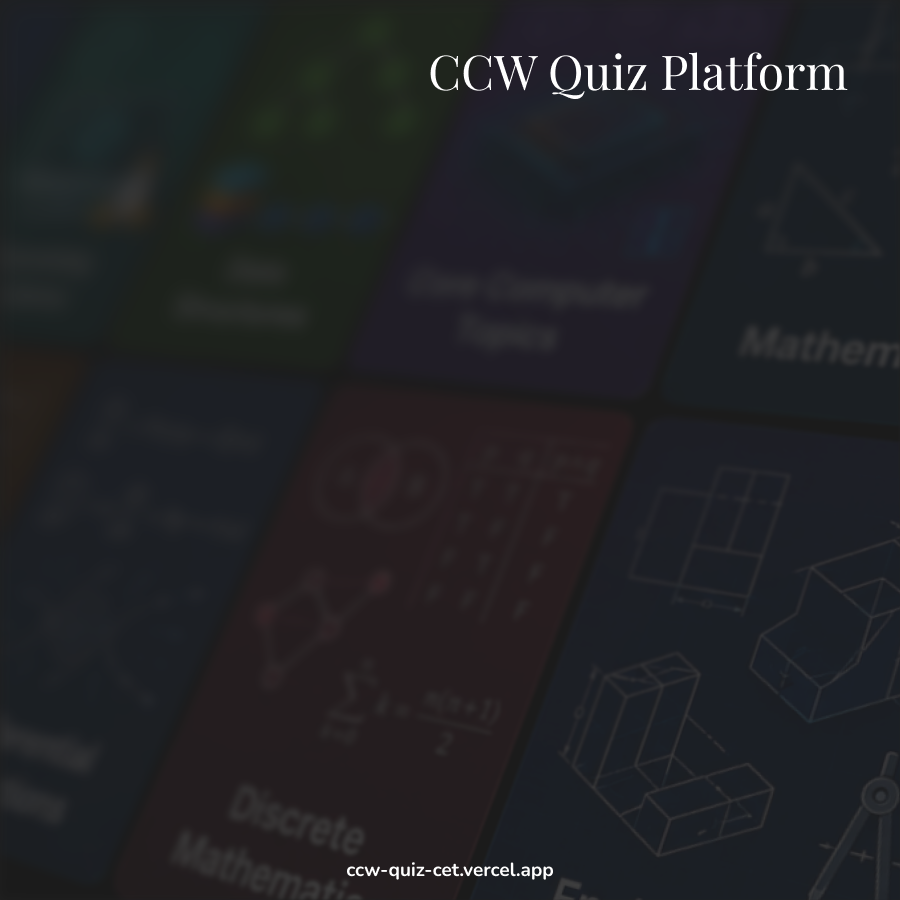
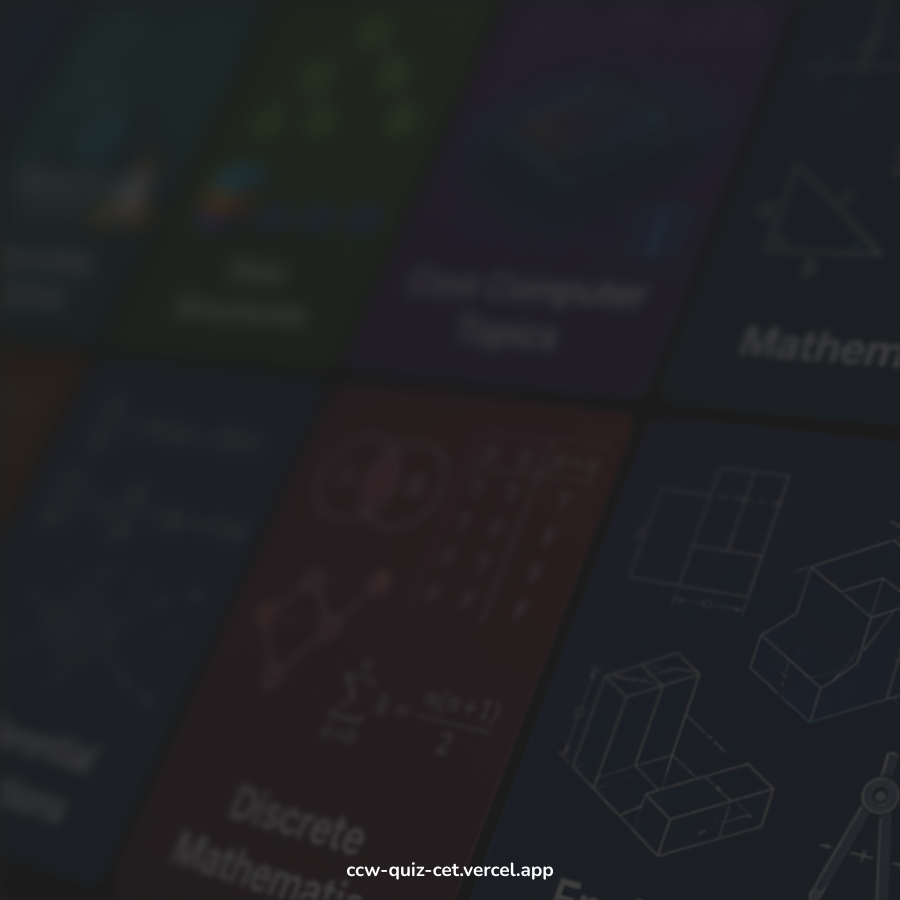
ui(exam): add dynamic motivational captions and update OG image
Enhances user experience by adding randomized, score-based motivational
captions to the exam completion view. Also updates the OpenGraph
image generation to include dynamic captions for better social sharing.

- Implement score-thresholded caption logic in `ExamCompleteView`
- Update `opengraph-image.tsx` to use dynamic captions and force-dynamic
  rendering
- Adjust OG image typography and layout for better caption visibility
- Update `thumb.png` asset

Changed region(s): [[0.4667, 0.0622, 0.9333, 0.1244]]

diff --git a/app/components/views/ExamCompleteView.tsx b/app/components/views/ExamCompleteView.tsx
@@ -60,6 +60,39 @@ function AccuracyBar({ label, pct, count }: { label: string; pct: number; count:
   );
 }
 
+const CAPTIONS: [number, string[]][] = [
+  [90, [
+    "Flawless. You're not just prepared — you're the preparation.",
+    "If exams were battles, you'd be the general.",
+    "At this rate, the syllabus should be scared of you.",
+    "You didn't just pass — you made the question bank your biography.",
+  ]],
+  [75, [
+    "Strong work. The gaps are closing fast.",
+    "You're in solid shape. Keep sharpening those edges.",
+    "Nearly there. One more revision and it's yours.",
+    "Above the line — now hold it and push higher.",
+  ]],
+  [60, [
+    "Decent footing. The foundation is there, just needs polish.",
+    "You know enough to be dangerous. Time to seal the leaks.",
+    "Middle of the pack — but the top is within reach.",
+    "You're further along than you think. Keep grinding.",
+  ]],
+  [40, [
+    "Rough ride, but you showed up. That counts.",
+    "Not where you want to be, but now you know where to dig.",
+    "This is just a diagnostic — the real win is the work ahead.",
+    "Low score, high signal. You know exactly what to fix.",
+  ]],
+  [0, [
+    "Tough one. The only way from here is up.",
+    "Consider this a heat map of what needs attention.",
+    "Every expert was once a beginner who didn't quit.",
+    "This isn't a verdict — it's a starting point.",
+  ]],
+];
+
 export function ExamCompleteView({
   examResult,
   examTopicBreakdown,
@@ -77,9 +110,13 @@ export function ExamCompleteView({
     (t) => examTopicBreakdown[t] > 0
   );
 
+  const captionBucket = CAPTIONS.find(([threshold]) => examResult.scorePercentage >= threshold) ?? CAPTIONS.at(-1)!;
+  const caption = captionBucket[1][Math.floor(Math.random() * captionBucket[1].length)];
+
   return (
     <section className="noise-surface rounded-xl border border-border bg-card p-6">
       <h2 className="text-2xl font-semibold">Exam Complete</h2>
+      <p className="mt-1 text-sm italic text-muted">&ldquo;{caption}&rdquo;</p>
 
       <div className="mt-6 flex flex-col items-center gap-8 sm:flex-row">
         <ScoreRing pct={examResult.scorePercentage} />

diff --git a/app/opengraph-image.tsx b/app/opengraph-image.tsx
@@ -5,6 +5,30 @@ import path from "path";
 export const alt = "CCW Quiz Platform";
 export const size = { width: 1200, height: 630 };
 export const contentType = "image/png";
+export const dynamic = "force-dynamic";
+
+const CAPTIONS: string[] = [
+  "Flawless. You're not just prepared — you're the preparation.",
+  "If exams were battles, you'd be the general.",
+  "At this rate, the syllabus should be scared of you.",
+  "You didn't just pass — you made the question bank your biography.",
+  "Strong work. The gaps are closing fast.",
+  "You're in solid shape. Keep sharpening those edges.",
+  "Nearly there. One more revision and it's yours.",
+  "Above the line — now hold it and push higher.",
+  "Decent footing. The foundation is there, just needs polish.",
+  "You know enough to be dangerous. Time to seal the leaks.",
+  "Middle of the pack — but the top is within reach.",
+  "You're further along than you think. Keep grinding.",
+  "Rough ride, but you showed up. That counts.",
+  "Not where you want to be, but now you know where to dig.",
+  "This is just a diagnostic — the real win is the work ahead.",
+  "Low score, high signal. You know exactly what to fix.",
+  "Tough one. The only way from here is up.",
+  "Consider this a heat map of what needs attention.",
+  "Every expert was once a beginner who didn't quit.",
+  "This isn't a verdict — it's a starting point.",
+];
 
 async function loadGoogleFont(name: string, weight: number): Promise<ArrayBuffer> {
   const css = await fetch(
@@ -26,6 +50,7 @@ export default async function Image() {
   const thumbBuffer = fs.readFileSync(path.join(process.cwd(), "public", "thumb.png"));
   const thumbBase64 = thumbBuffer.toString("base64");
   const thumbUrl = `data:image/png;base64,${thumbBase64}`;
+  const caption = CAPTIONS[Math.floor(Math.random() * CAPTIONS.length)];
 
   return new ImageResponse(
     (
@@ -99,14 +124,16 @@ export default async function Image() {
           </div>
           <div
             style={{
-              fontSize: 16,
+              fontSize: 14,
               color: "#a0a0a0",
               fontFamily: "Nunito",
               fontWeight: 400,
+              fontStyle: "italic",
               marginTop: 2,
+              maxWidth: 700,
             }}
           >
-            421 curated questions across 10 core domains
+            {caption}
           </div>
         </div>
       </div>